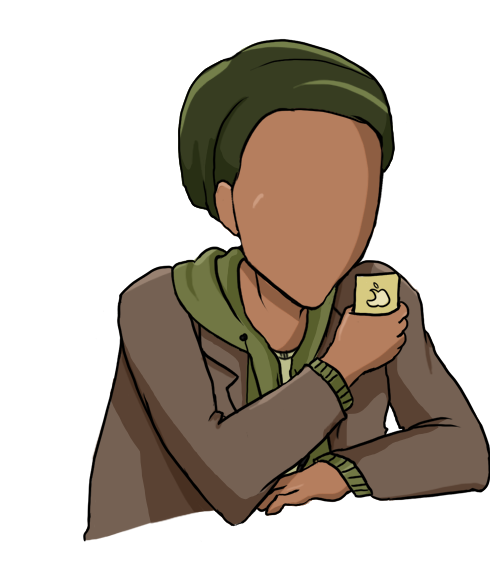
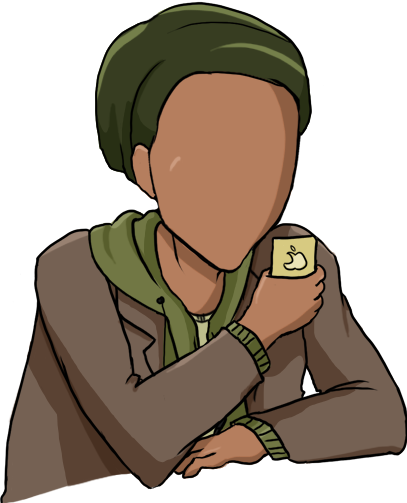
Adjusted Date & Game width

diff --git a/states/date.js b/states/date.js
@@ -11,9 +11,9 @@ var samplePlayer = {
 
 var date = {
 	preload: function(){
-		game.load.image('hipster', '/assets/hipster/hipster_1_left_white.png');
-		game.load.image('nerd', '/assets/nerd/nerd_1_left_white.png');
-		game.load.image('background', '/assets/backgrounds/final_bg_left.png');
+		game.load.image('hipster', '/assets/hipster/final_hipster_pose1_right.png');
+		game.load.image('nerd', '/assets/nerd/final_nerd_pose1_right.png');
+		game.load.image('background', '/assets/backgrounds/background_980x720_flip.png');
 		game.load.image('button', '/assets/ui/buttons.png');
 		game.load.image('panel', 'assets/ui/command_box_2.png');
 		game.load.image('heart_right', 'assets/ui/heart_right.png');
@@ -28,13 +28,13 @@ var date = {
 
 		this.player2 = {affection: 389};
 
-		this.player1.sprite = game.add.sprite(170, 145, 'hipster');
-		this.player1.sprite.scale.setTo(0.5);
+		this.player1.sprite = game.add.sprite(150, 145, 'hipster');
+		this.player1.sprite.scale.setTo(0.8);
 
-		this.player2.sprite  = game.add.sprite(170, 65, 'nerd');
-		this.player2.sprite.scale.setTo(0.5);
+		this.player2.sprite  = game.add.sprite(125, 92, 'nerd');
+		this.player2.sprite.scale.setTo(0.8);
 
-		this.player1.sprite.sendToBack();
+		this.player2.sprite.sendToBack();
 
 		this.makeUI();
 	},
@@ -46,7 +46,7 @@ var date = {
 	makeUI: function(){
 
 		this.panel = new Panel({
-			x: 1280,
+			x: 980,
 			y: 0,
 			cols: 1,
 			buttons: [

diff --git a/index.html b/index.html
@@ -3,6 +3,7 @@
     <head>  
         <meta charset="utf-8" />
         <title>Heart Attack</title>
+        <link href='style/style.css' rel='stylesheet' type='text/css'>
         <script type="text/javascript" src="phaser.min.js"></script>
         <script type='text/javascript' src='objects/person.js'></script>
         <script type='text/javascript' src='objects/attack.js'></script>

diff --git a/style/style.css b/style/style.css
@@ -1,0 +1,12 @@
+/* Generated by Font Squirrel (https://www.fontsquirrel.com) on December 4, 2016 */
+
+
+
+@font-face {
+    font-family: 'punkboyitalic';
+    src: url('punkboy_tbs_ital-webfont.woff2') format('woff2'),
+         url('punkboy_tbs_ital-webfont.woff') format('woff');
+    font-weight: normal;
+    font-style: normal;
+
+}

diff --git a/states/game.js b/states/game.js
@@ -1,4 +1,4 @@
-var gameWidth = 1580,
+var gameWidth = 1280,
 	gameHeight = 720;
 
 var game = new Phaser.Game(gameWidth, gameHeight);
